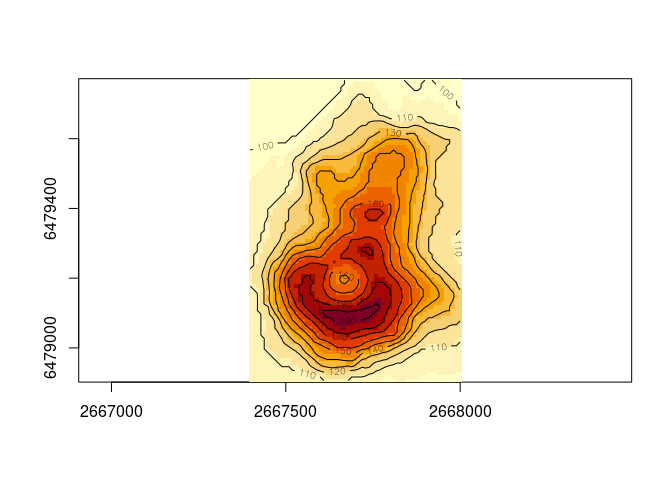
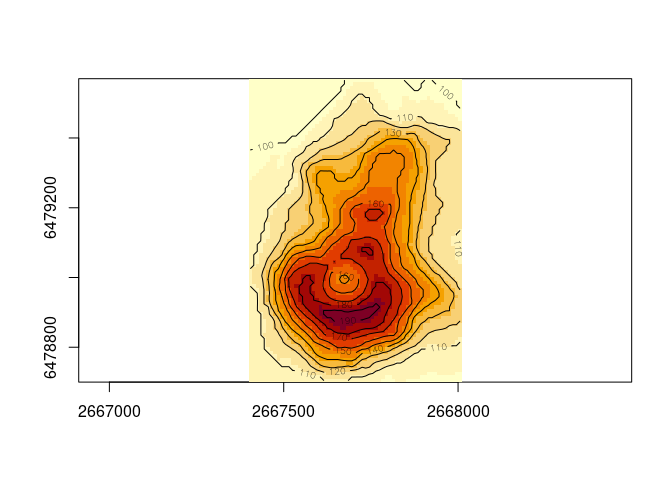
fixed up a bunch of stuff

diff --git a/README.md b/README.md
@@ -6,7 +6,13 @@
 <!-- badges: start -->
 <!-- badges: end -->
 
-The goal of volcano is to georeference the `volcano` data set.
+The goal of volcano is to georeference the `volcano` data set. There are
+3 datasets
+
+- `volc` volcano matrix in an R xyz ‘image’ list, oriented correctly for
+  use with raster tools
+- `volc_extent` the four number extent `c(xmin, xmax, ymin, ymax)`
+- `volc_proj` the projection string, it’s an EPSG code for NZMG
 
 ## Installation
 
@@ -24,6 +30,13 @@ This is a basic example which shows you how to solve a common problem:
 
 ``` r
 library(volcano)
+
+print(volc_extent)
+#> [1] 2667400 2668010 6478700 6479570
+print(volc_proj)
+#> [1] "EPSG:27200"
+diff(volc_extent)[c(1, 3)]  ## Ross Ihaka's famous digitization was 10m pixels
+#> [1] 610 870
 ## basic example code
 image(volc, asp = 1)
 
@@ -31,8 +44,8 @@ image(volc, asp = 1)
 #> class       : SpatRaster 
 #> dimensions  : 87, 61, 1  (nrow, ncol, nlyr)
 #> resolution  : 10, 10  (x, y)
-#> extent      : 2667394, 2668004, 6478902, 6479772  (xmin, xmax, ymin, ymax)
-#> coord. ref. : +proj=nzmg +lat_0=0 +lon_0=0 +x_0=0 +y_0=0 +datum=WGS84 +units=m +no_defs 
+#> extent      : 2667400, 2668010, 6478700, 6479570  (xmin, xmax, ymin, ymax)
+#> coord. ref. : NZGD49 / New Zealand Map Grid (EPSG:27200) 
 #> source      : volcano.tif 
 #> name        : lyr.1 
 #> min value   :    94 
@@ -42,7 +55,27 @@ terra::contour(vtiff, add = TRUE)
 
 <img src="man/figures/README-example-1.png" width="100%" />
 
-See the vignette for more.
+`volc` is just volcano stored as a `image()` list. We can work directly
+with it by reversing each axis, and using GDAL to get other data in the
+same projection.
+
+``` r
+#remotes::install_github(file.path("hypertidy", c("whatarelief", "ximage")))
+prj <- "EPSG:27200"
+oriented <- volcano[nrow(volcano):1, ncol(volcano):1]
+
+ximage::ximage(oriented, extent = volc_extent, asp = 1)
+
+x <- whatarelief::elevation(volc_extent, dimension = c(256, 256), projection = volc_proj)
+#> [1] "SRTM in use, in addition to GEBCO"
+#> [1] "/vsicurl/https://public.services.aad.gov.au/datasets/science/GEBCO_2021_GEOTIFF/GEBCO_2021.tif"
+#> [2] "/vsicurl/https://opentopography.s3.sdsc.edu/raster/COP30/COP30_hh.vrt"
+im <- whatarelief::imagery(volc_extent, dimension = c(512, 512), projection = volc_proj)
+ximage::ximage(im, extent = volc_extent, add = TRUE)
+ximage::xcontour(x, extent = volc_extent, add = T, col = "white")
+```
+
+<img src="man/figures/README-unnamed-chunk-2-1.png" width="100%" />
 
 ## Code of Conduct
 
